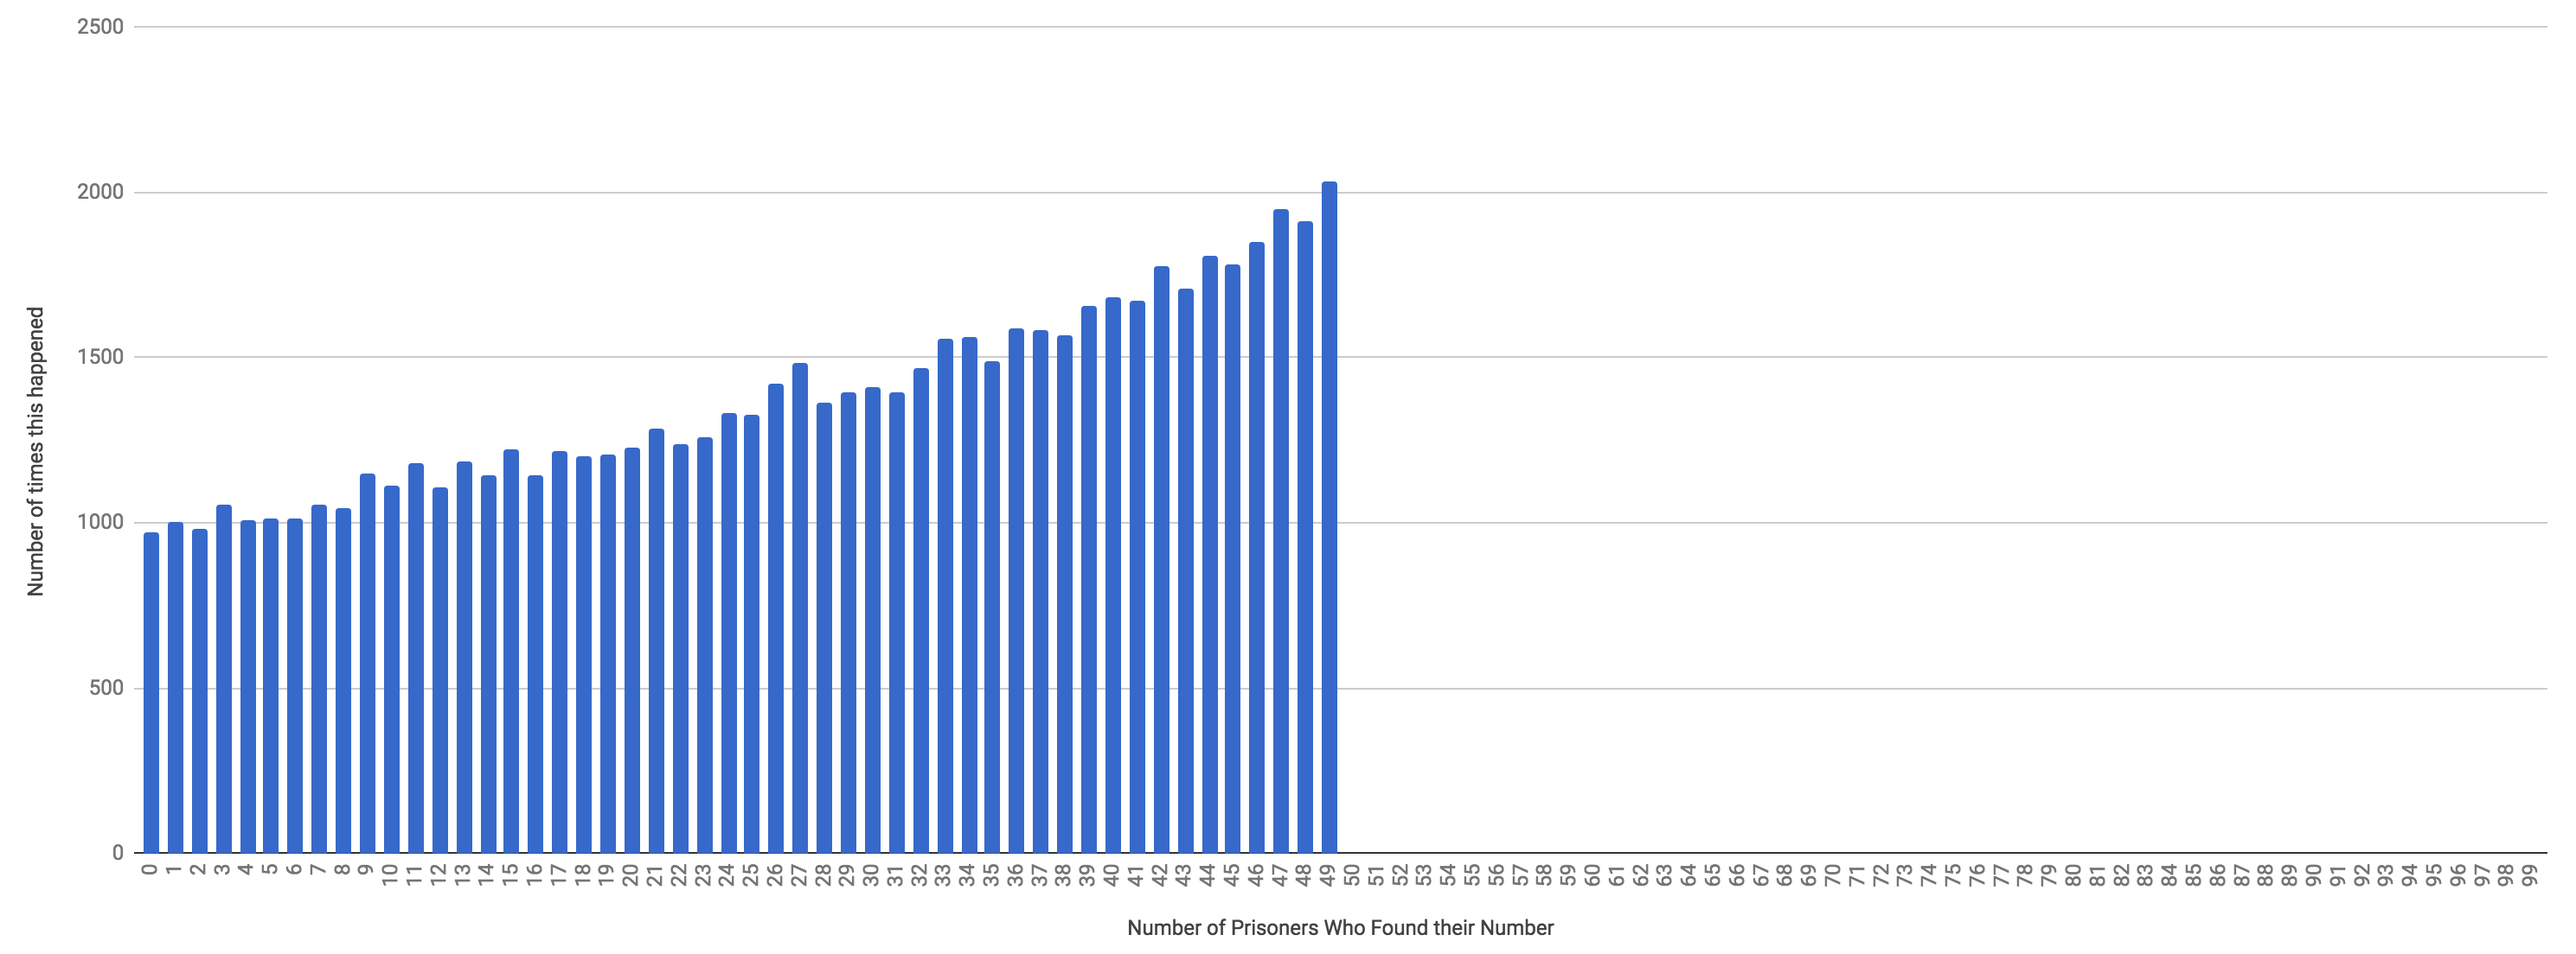
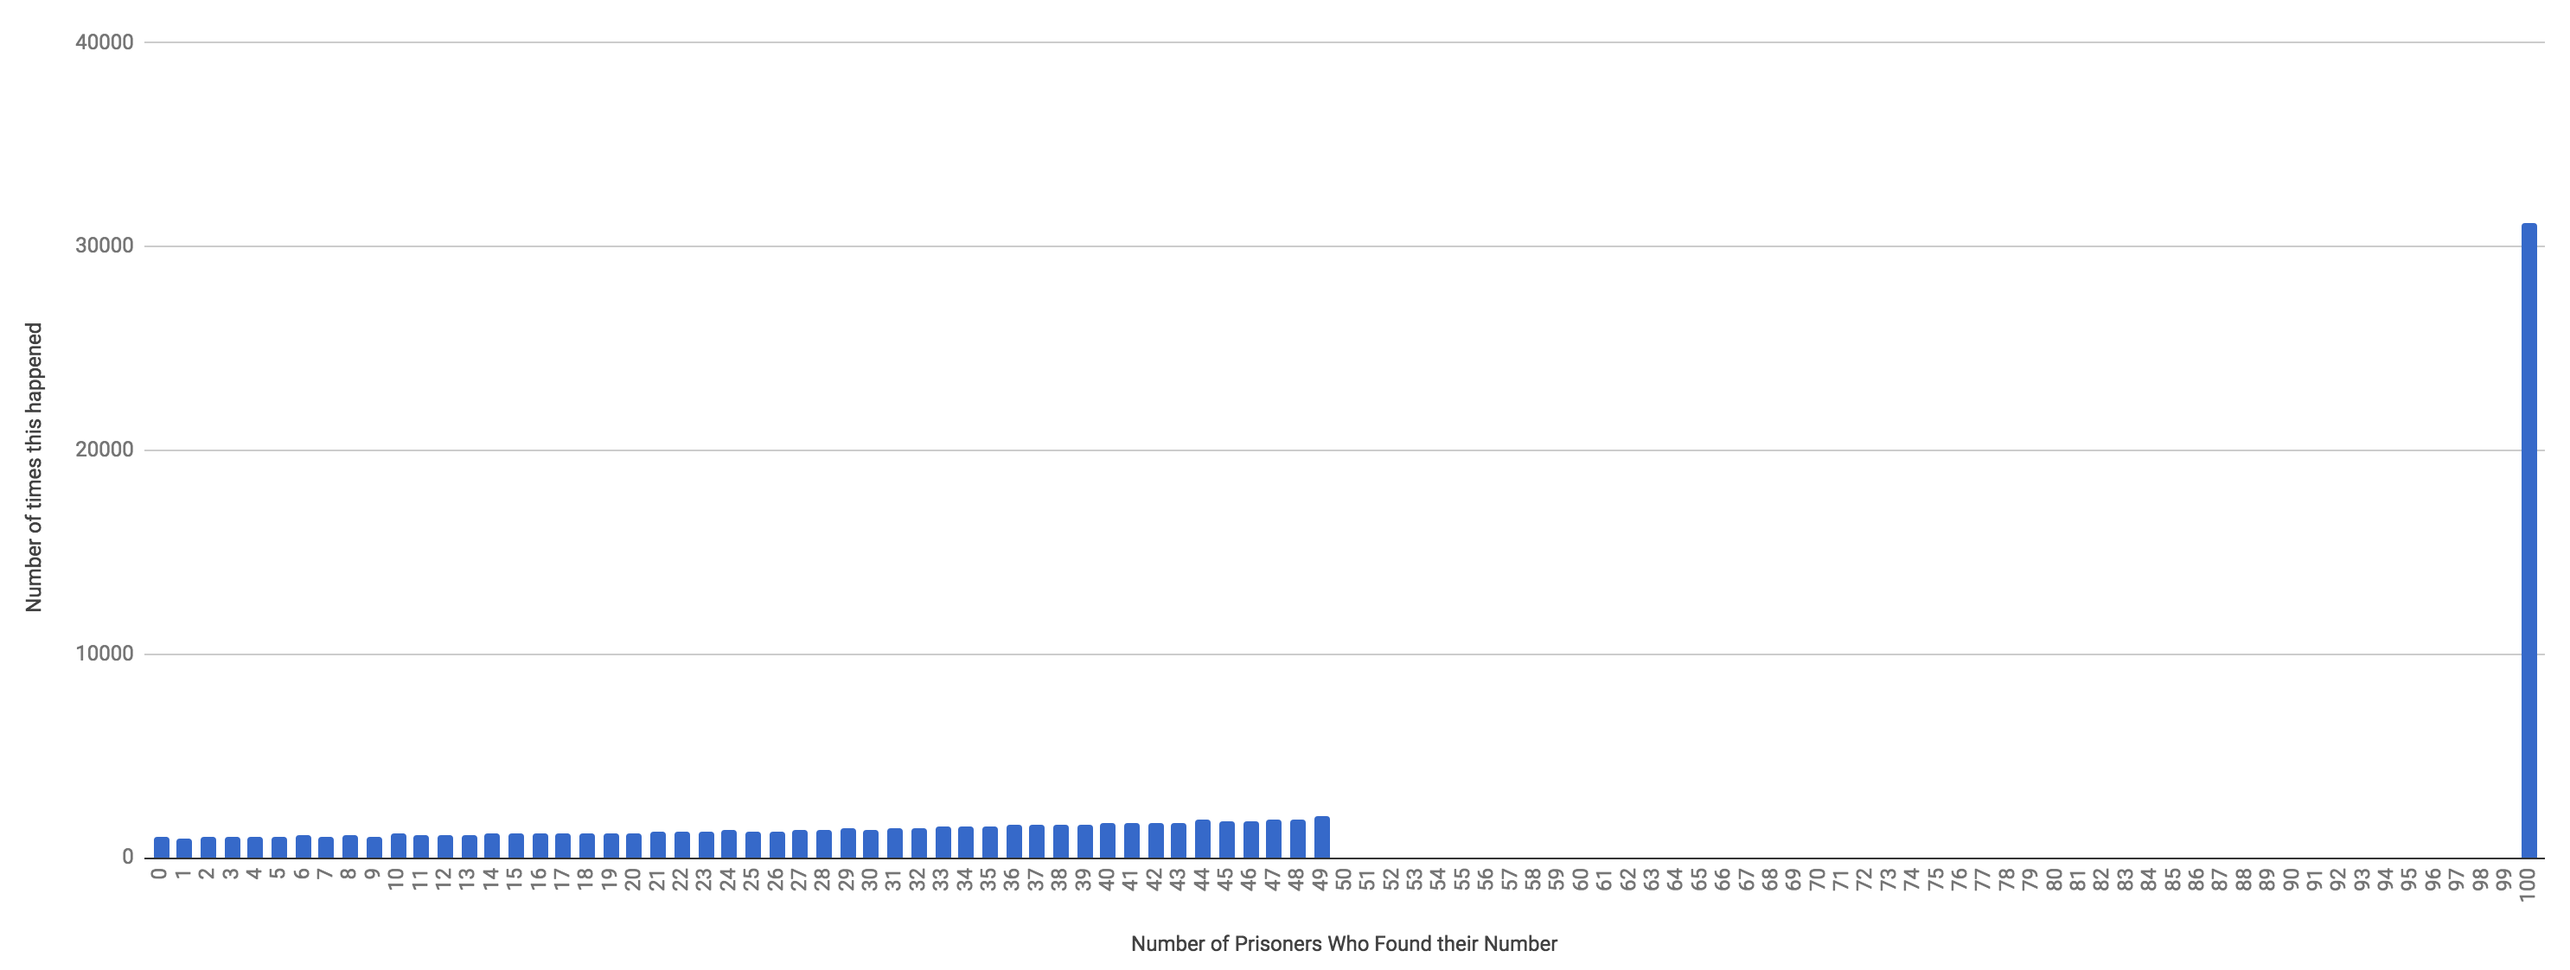
New histogram and fixes

diff --git a/simulate.py b/simulate.py
@@ -10,17 +10,14 @@ def main():
     histogram = defaultdict(int)
     for _ in xrange(ITERATIONS):
         boxes = generate_boxes(PRISONER_COUNT)
-        prisoners_who_found_their_number = 0
-        for prisoner in range(len(boxes)):
-            if find_prisoner_number(prisoner, boxes):
-                prisoners_who_found_their_number += 1
+        prisoners_who_found_their_number = sum(find_prisoner_number(prisoner, boxes) for prisoner in range(PRISONER_COUNT))
         histogram[prisoners_who_found_their_number] += 1
-        if prisoners_who_found_their_number >= len(boxes)/2:
+        if prisoners_who_found_their_number >= PRISONER_COUNT/2:
             successful_runs += 1
 
     print 'Histogram of successful prisoner counts:'
-    for success_count in range(PRISONER_COUNT):
-        print '{}\t{}'.format(success_count, histogram[success_count])
+    for count in range(PRISONER_COUNT+1):
+        print '{}\t{}'.format(count, histogram[count])
 
     print 'Successful runs: {} of {} ({}%)'.format(successful_runs, ITERATIONS,
             round(float(successful_runs)/float(ITERATIONS)*100, 1))
@@ -39,6 +36,7 @@ def generate_boxes(n):
     seed(datetime.now()) # to ensure nice random box shuffling
     boxes = range(n)
     shuffle(boxes)
+    assert len(set(boxes)) == n
     return boxes
 
 if __name__ == '__main__':
